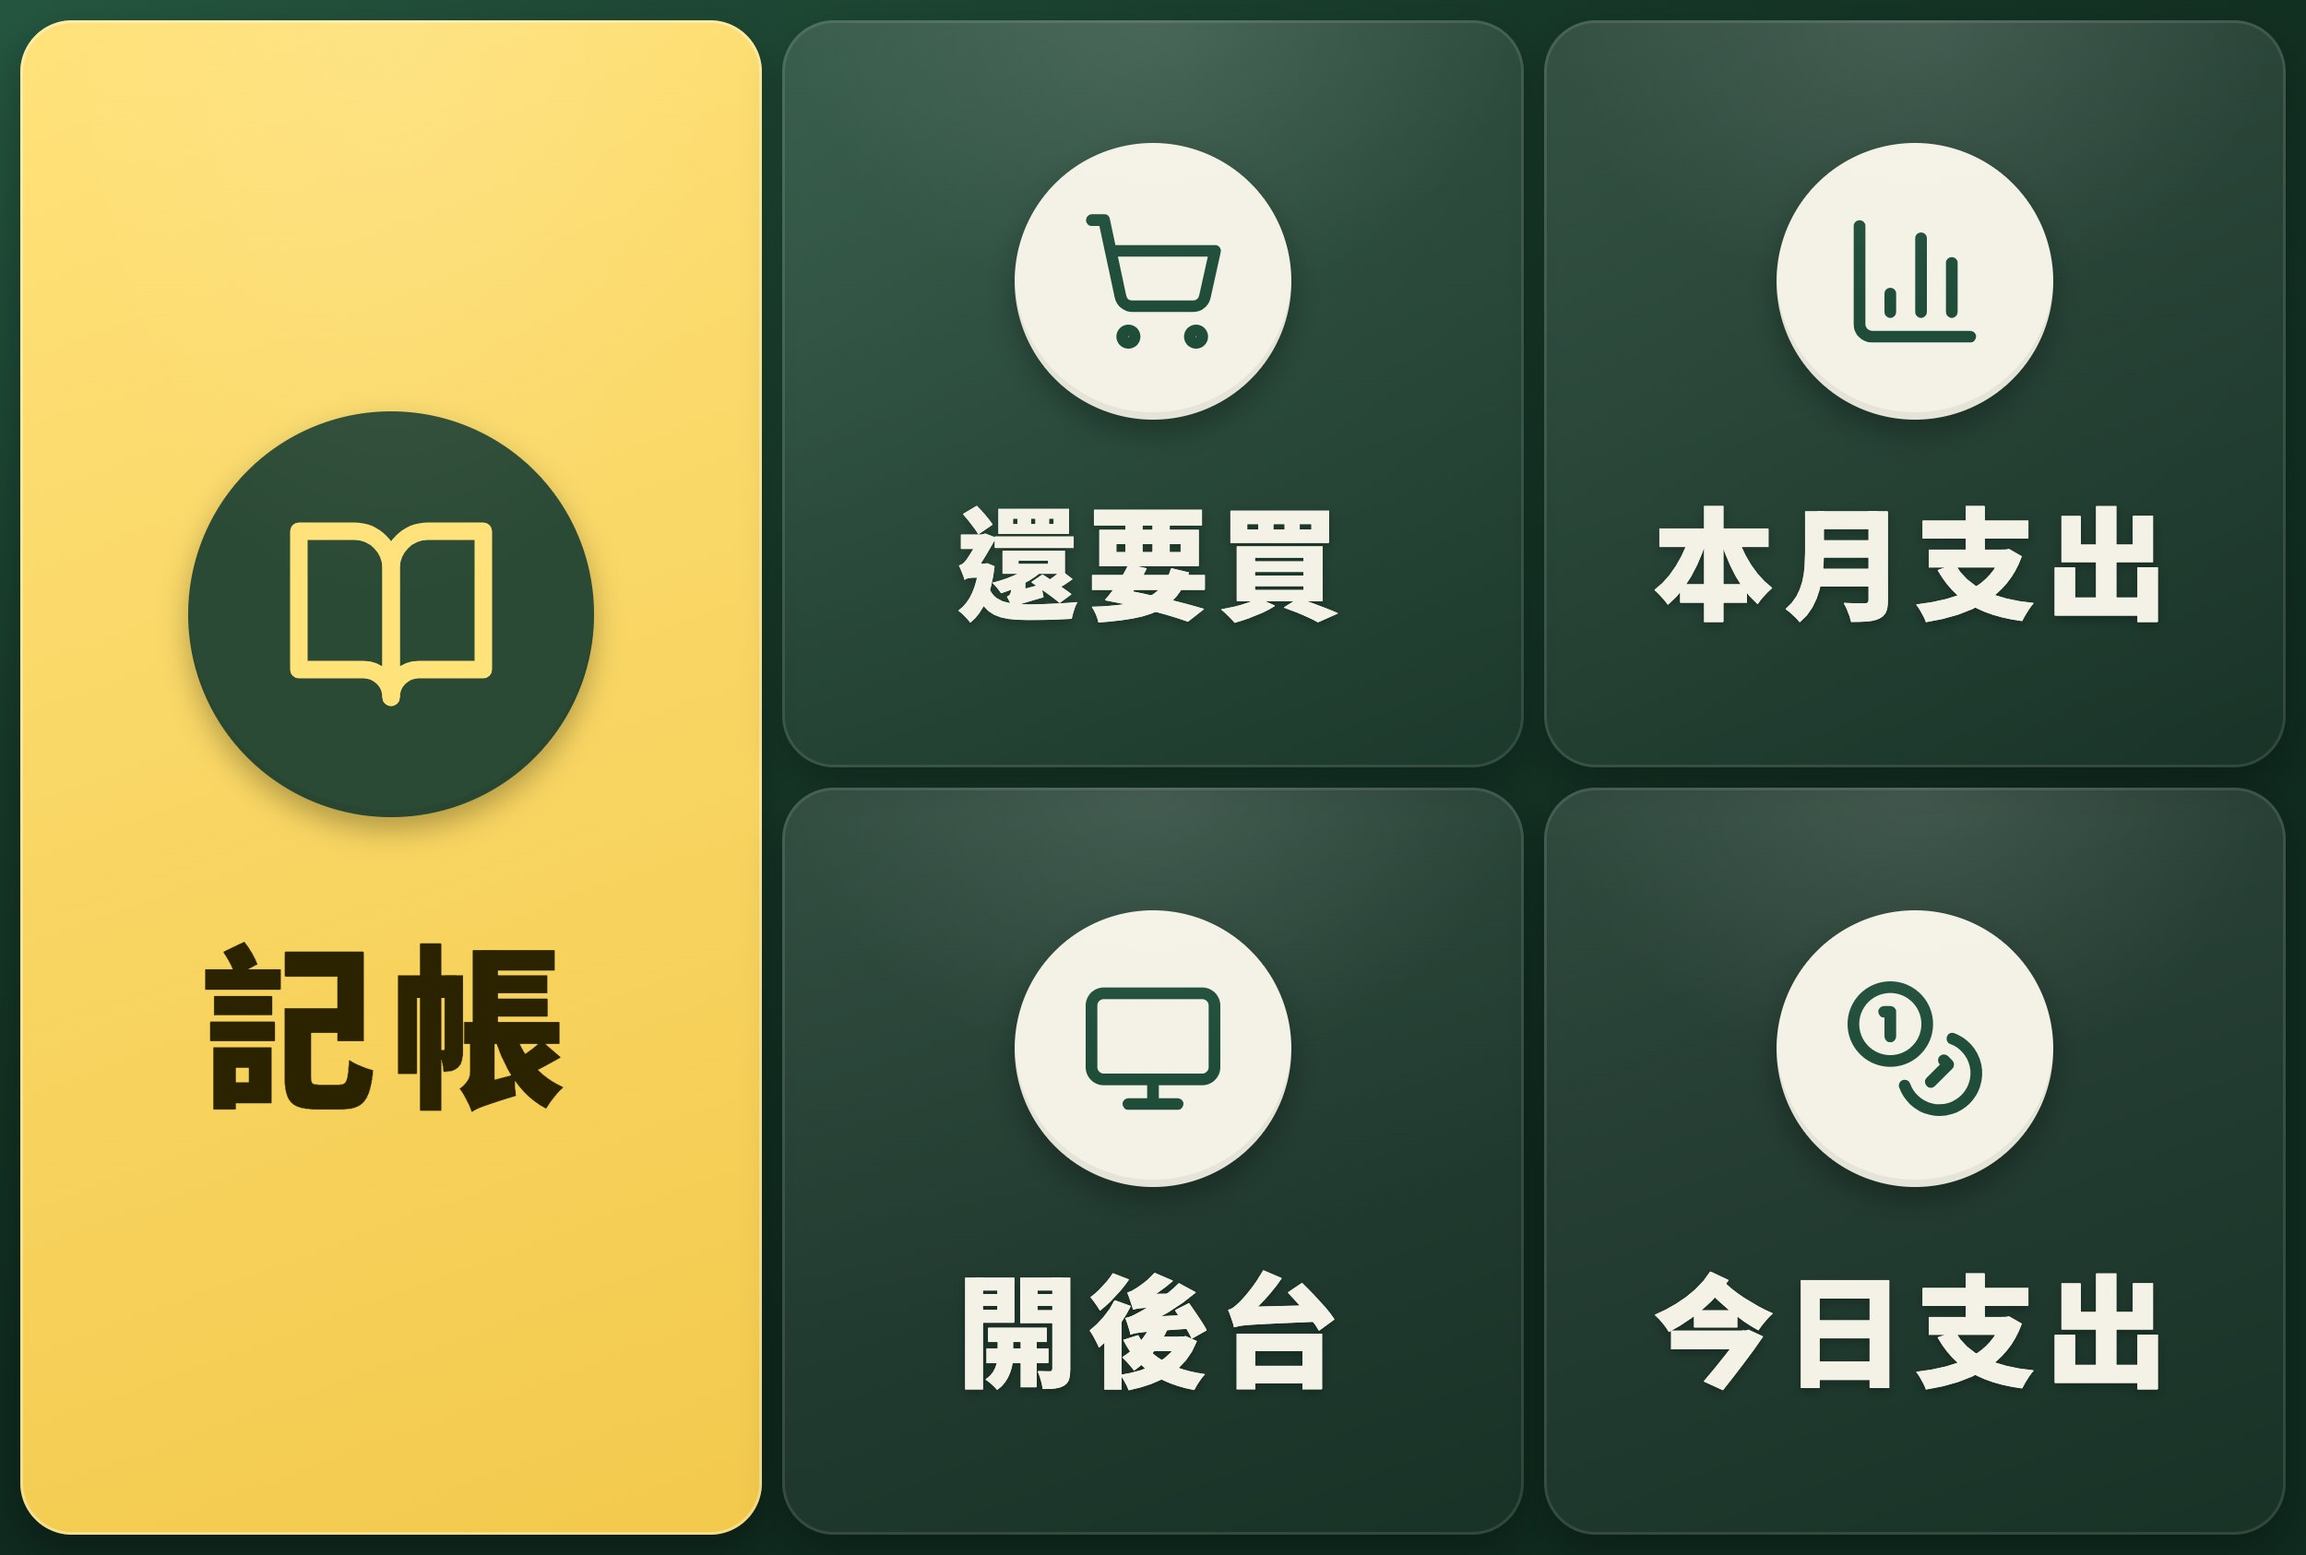
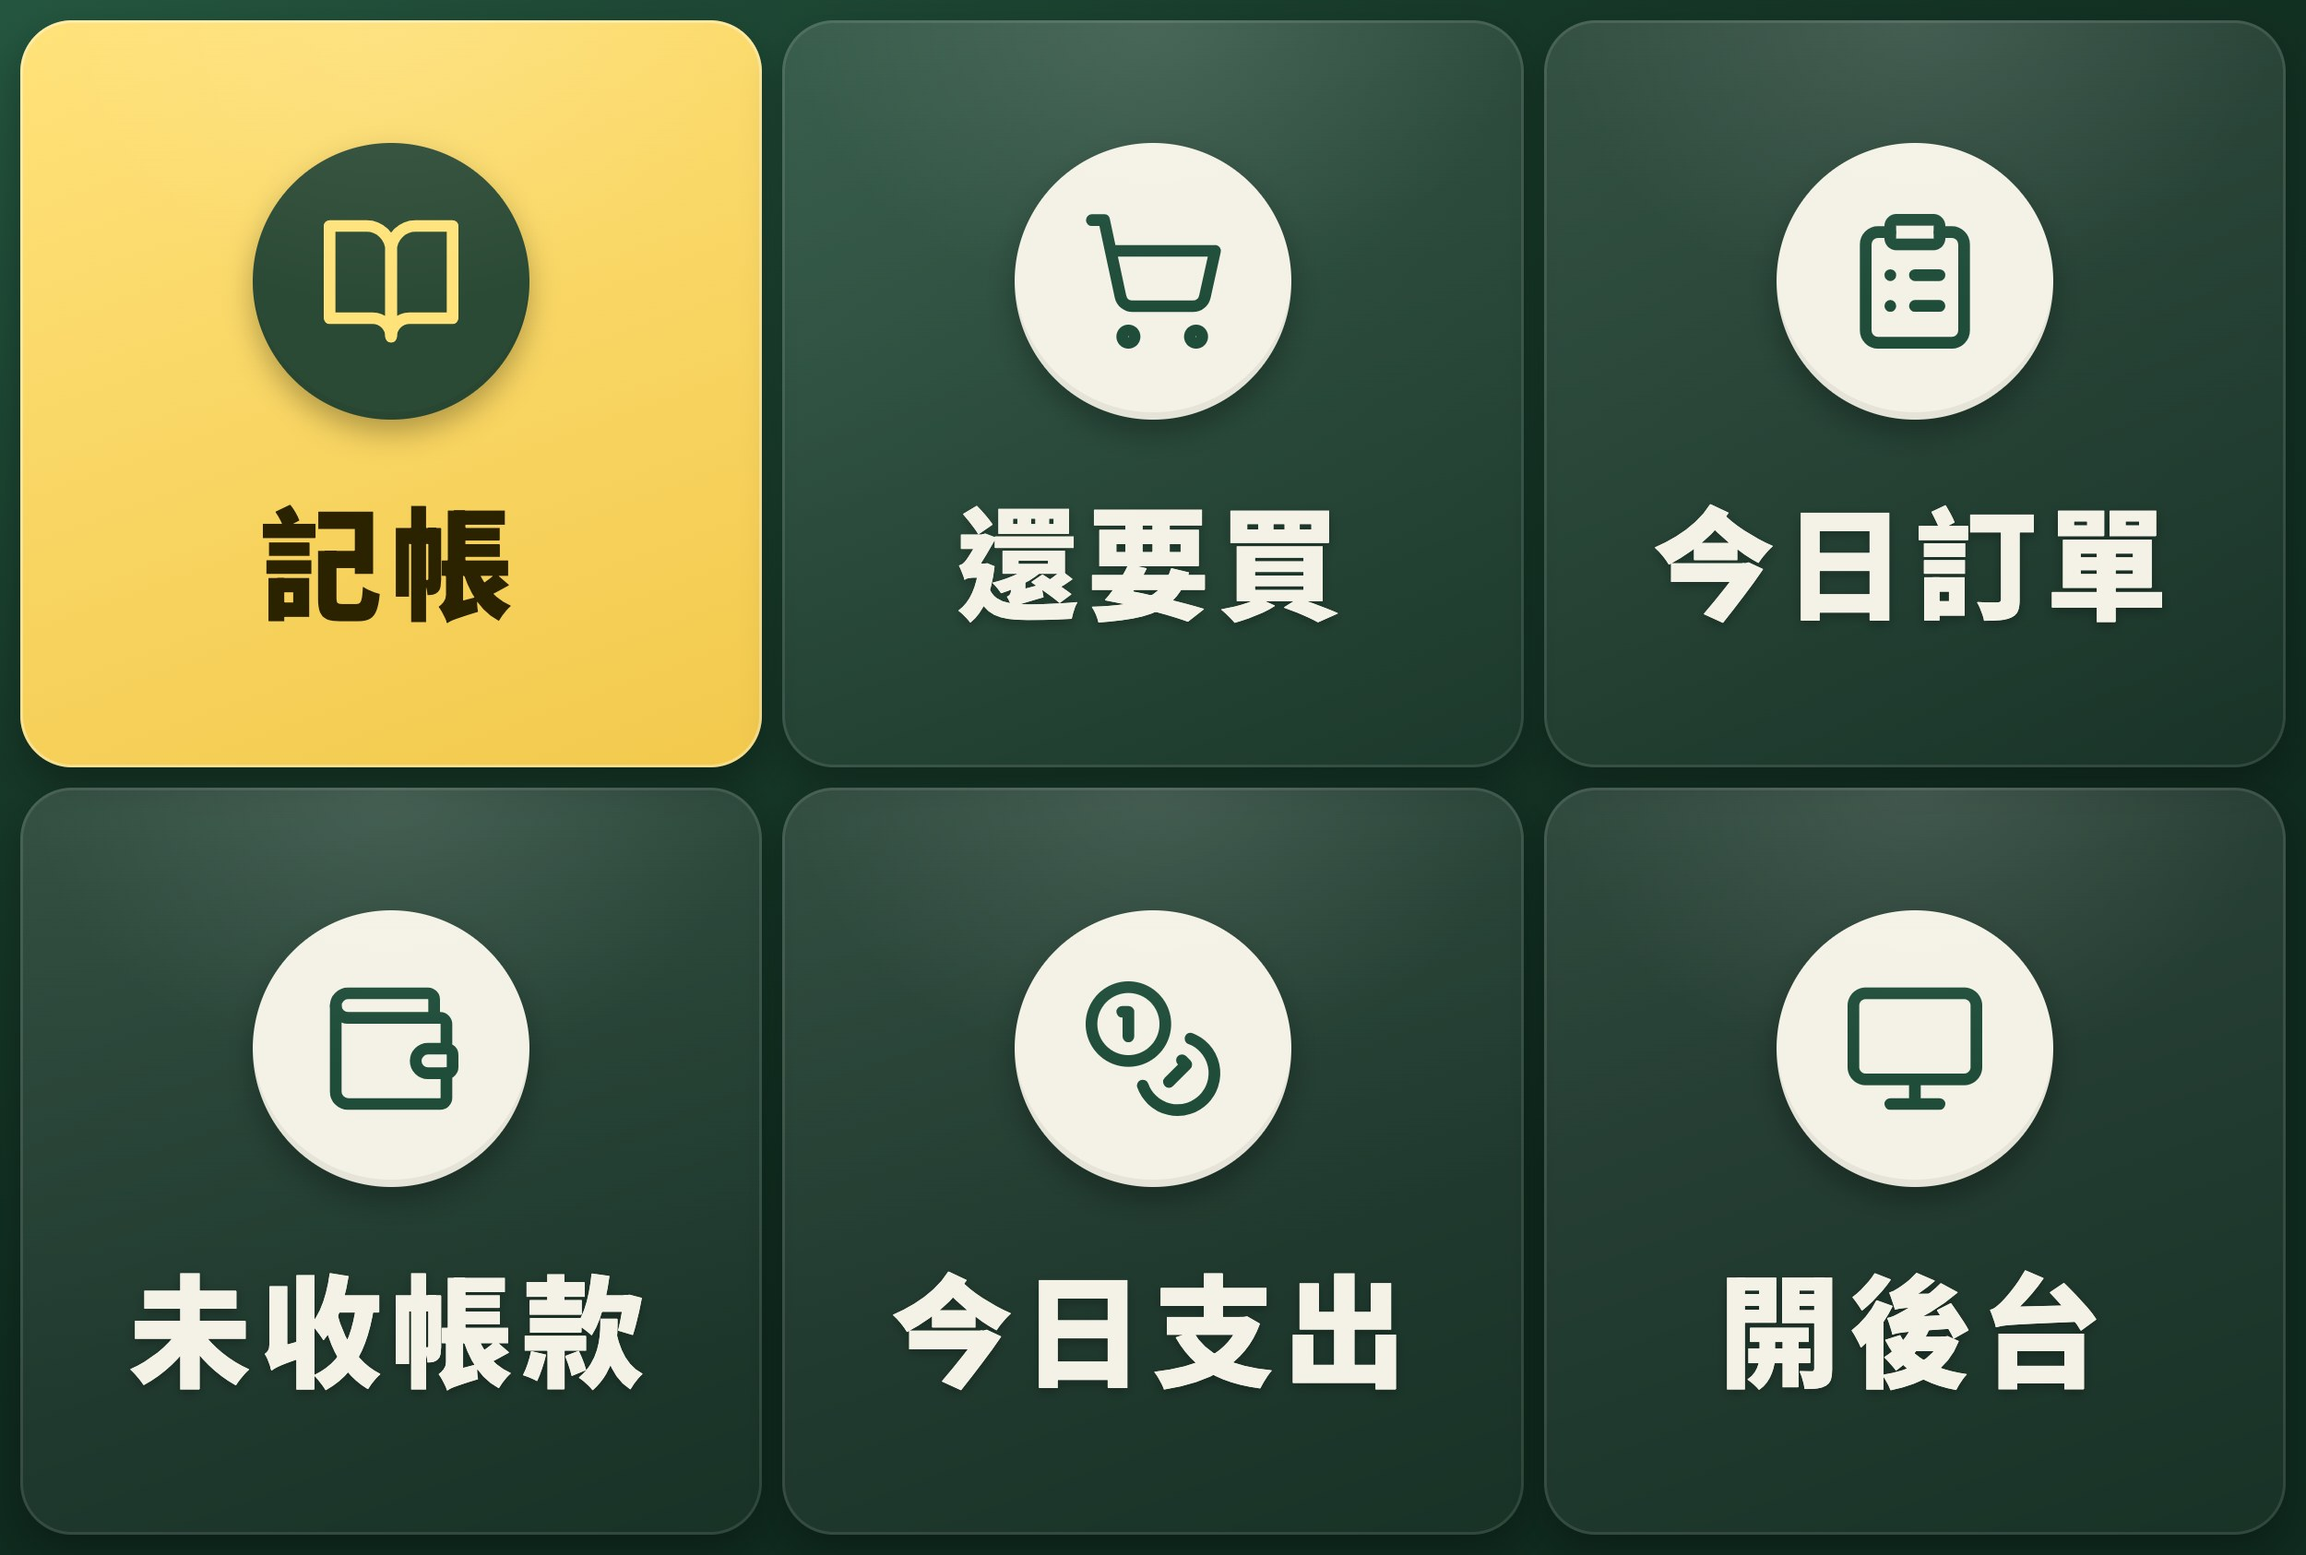
老闆選單改 6 格：加「今日訂單」（誰叫了、誰還沒叫、一鍵提醒）和「未收帳款」（誰欠多少、確認後催款附對帳單）

diff --git a/functions/api/bosschat.js b/functions/api/bosschat.js
@@ -1,0 +1,74 @@
+// 老闆選單的「今日訂單」「未收帳款」（查詢用回覆，不算額度；提醒、催款是推播給店家，會用額度）
+import { openDate, buyDate, label, cutoffLabel } from '../lib/dates.js';
+import * as shop from '../lib/shop.js';
+import * as report from '../lib/report.js';
+import { remindText, dunningText, statementMessage, money } from '../lib/messages.js';
+import { push } from '../lib/line.js';
+
+const pbAct = (label, data, text) => ({ type: 'action', action: { type: 'postback', label: label.slice(0, 20), data, displayText: text || label } });
+const pushStore = (s, msgs) => Promise.allSettled(s.members.map((m) => push(m.userId, msgs))).then((r) => r.some((x) => x.status === 'fulfilled'));
+
+export async function bossInfo({ said, pb, action }) {
+  /* ---------- 今日訂單：還在叫貨的那天，誰叫了、誰還沒叫 ---------- */
+  if (/^(今日訂單|今天訂單|訂單狀況|誰還沒叫)$/.test(said) || action === 'remindall') {
+    const D = openDate();
+    const [stores, orders] = await Promise.all([shop.getStores(), shop.ordersOfDate(D)]);
+    const active = stores.filter((s) => s.on);
+    const ordered = new Set(orders.map((o) => o.storeId));
+    const miss = active.filter((s) => !ordered.has(s.id));
+    if (action === 'remindall') {
+      const can = miss.filter((s) => s.members.length);
+      const ok = (await Promise.all(can.map((s) => pushStore(s, [remindText(D)])))).filter(Boolean).length;
+      return { type: 'text', text: `已用 LINE 提醒 ${ok} 家：${can.map((s) => s.name).join('、') || '（沒有綁 LINE 的店）'}${miss.length > can.length ? `\n沒綁 LINE、要打電話的：${miss.filter((s) => !s.members.length).map((s) => s.name).join('、')}` : ''}` };
+    }
+    const n = (sid) => orders.filter((o) => o.storeId === sid).reduce((a, o) => a + o.items.length, 0);
+    const lines = [`📋 ${label(D)} 配送（${cutoffLabel(D)} 截單）`, `已叫 ${ordered.size}／${active.length} 家`];
+    if (ordered.size) lines.push('', '✅ 已叫：', ...active.filter((s) => ordered.has(s.id)).map((s) => `・${s.name} ${n(s.id)} 樣`));
+    if (miss.length) lines.push('', '⏳ 還沒叫：', ...miss.map((s) => `・${s.name}${s.members.length ? '' : '（沒綁 LINE）'}`));
+    // 截單後在買的那天（例如今晚截單後看明天的），也一起列
+    const B = buyDate();
+    if (B !== D) {
+      const bo = await shop.ordersOfDate(B);
+      lines.push('', `🚚 ${label(B)} 要送：${new Set(bo.map((o) => o.storeId)).size} 家（已截單）`);
+    }
+    const canRemind = miss.filter((s) => s.members.length).length;
+    return {
+      type: 'text', text: lines.join('\n'),
+      quickReply: { items: [pbAct('🔄 再看一次', 'action=menuinfo&w=orders', '今日訂單'), ...(canRemind ? [pbAct(`📣 提醒沒叫的 ${canRemind} 家`, 'action=remindall', '提醒沒叫的店家')] : [])] },
+    };
+  }
+
+  /* ---------- 未收帳款：誰還欠多少，可以直接催款 ---------- */
+  if (/^(未收帳款|未收款|應收帳款|誰還沒付)$/.test(said) || action === 'dun') {
+    const ar = await report.receivables();
+    if (action === 'dun') {
+      const s = (await shop.getStores()).find((x) => x.id === pb.get('sid'));
+      const a = ar.find((x) => x.storeId === s?.id);
+      if (!s || !a) return { type: 'text', text: '這家店已經沒有未收款了。' };
+      if (!s.members.length) return { type: 'text', text: `「${s.name}」沒有綁 LINE，請打電話催款${s.phone ? `：${s.phone}` : ''}。` };
+      // 先確認一次，免得手滑就傳給客人
+      if (!pb.get('go')) return { type: 'text', text: `確定要用 LINE 傳催款通知給「${s.name}」嗎？\n未收 ${money(a.total)}，會附上 ${Math.min(4, a.months.length)} 張對帳單。`, quickReply: { items: [pbAct('📣 確定催款', `action=dun&sid=${s.id}&go=1`, `確定催款：${s.name}`), pbAct('取消', 'action=menuinfo&w=ar', '取消')] } };
+      const months = a.months.slice(0, 4).reverse();
+      const stmts = await Promise.all(months.map(async (m) => {
+        const [rows, paid] = await Promise.all([shop.monthAmounts(m.month), shop.getPaid(m.month)]);
+        const mine = rows.filter((r) => r.storeId === s.id).sort((x, y) => x.date.localeCompare(y.date));
+        const total = mine.reduce((x, r) => x + r.amount, 0);
+        return statementMessage(s, m.month, mine, total, shop.paidSum(paid[s.id], total));
+      }));
+      await pushStore(s, [...stmts, dunningText(s, a)]);
+      return { type: 'text', text: `已傳催款通知和 ${stmts.length} 張對帳單給「${s.name}」（${money(a.total)}）。` };
+    }
+    if (!ar.length) return { type: 'text', text: '✅ 沒有未收款，全部都收清了！' };
+    const total = ar.reduce((a, s) => a + s.total, 0);
+    const old = ar.filter((s) => s.months.some((m) => m.age >= 2));
+    const lines = [`💰 未收帳款 ${ar.length} 家，共 ${money(total)}`, '', ...ar.slice(0, 20).map((s) => `・${s.name} ${money(s.total)}${s.months.some((m) => m.age >= 2) ? ' ⚠超過2個月' : ''}\n　${s.months.slice().reverse().map((m) => `${+m.month.slice(5)}月 ${money(m.amount)}`).join('、')}`)];
+    if (ar.length > 20) lines.push(`…還有 ${ar.length - 20} 家，到後台「報表」看`);
+    if (old.length) lines.push('', `⚠ ${old.length} 家超過 2 個月沒付清`);
+    return {
+      type: 'text', text: lines.join('\n'),
+      quickReply: { items: ar.filter((s) => s.hasLine).slice(0, 12).map((s) => pbAct(`催 ${s.name}`, `action=dun&sid=${s.storeId}`, `催款：${s.name}`)) },
+    };
+  }
+  if (action === 'menuinfo') return bossInfo({ said: pb.get('w') === 'orders' ? '今日訂單' : '未收帳款', pb, action: '' });
+  return null;
+}

diff --git a/public/manual.html b/public/manual.html
@@ -497,7 +497,7 @@ details>div p+p{margin-top:8px}
     <ul>
       <li>每個月的營收、進貨成本、毛利、淨利、出貨重量。沒填進價的營收會提醒你，毛利會偏高。</li>
       <li><b>記帳（支出）</b>：填日期、買了什麼、金額按「記一筆」，分類選「自動分類」就會照關鍵字分好。記的支出會算進當天的其他成本和淨利。</li>
-      <li><b>用 LINE 記帳</b>（只有老闆的 LINE 可以）：直接打「油錢 500」「昨天 紙箱 800」「10/28 進貨 12000 @大成」，@ 後面是付給誰。回覆下面可以「取消這筆」或改分類，改過一次，下次打一樣的字就會自動分對。打「今天支出」「本月支出」「上個月支出」可以查帳，打「還要買」看還有哪些菜沒買齊。老闆的 LINE 會看到「老闆選單」（記帳、今天支出、本月支出、開後台、店家模式），店家看不到。按「還要買」看採買進度、「今日支出」「本月支出」查帳。要測試叫貨就打「店家選單」切到店家選單，這時候記帳要在前面加「記帳」；打「老闆選單」切回來。</li>
+      <li><b>用 LINE 記帳</b>（只有老闆的 LINE 可以）：直接打「油錢 500」「昨天 紙箱 800」「10/28 進貨 12000 @大成」，@ 後面是付給誰。回覆下面可以「取消這筆」或改分類，改過一次，下次打一樣的字就會自動分對。打「今天支出」「本月支出」「上個月支出」可以查帳，打「還要買」看還有哪些菜沒買齊。老闆的 LINE 會看到「老闆選單」（記帳、今天支出、本月支出、開後台、店家模式），店家看不到。老闆選單有：記帳、還要買、今日訂單（誰叫了、誰還沒叫，可以一鍵提醒沒叫的）、未收帳款（誰欠多少，點「催 ○○」確認後傳催款和對帳單）、今日支出、開後台。打「本月支出」也查得到。要測試叫貨就打「店家選單」切到店家選單，這時候記帳要在前面加「記帳」；打「老闆選單」切回來。</li>
       <li><b>進貨的分類跟品項分類一樣</b>（例如葉菜類、瓜果豆類…），品名會自動分類：打「高麗菜 1500」就記進葉菜類。LINE 按「記帳」會先跳出分類按鈕，點一個再打金額也可以。</li>
       <li><b>自動算進價</b>：記帳寫數量（「高麗菜20斤 5000」）會算出每斤進價 $250，並自動填進那個配送日「單價」頁的進價。同一天分幾次買會用加權平均，修改或刪掉那筆帳也會重算。</li>
       <li><b>進貨統計</b>：每個品項這個月店家叫了多少、已買多少、多買或少買、記帳金額、平均進價和最低～最高價，「匯出 Excel」也有這張。</li>

diff --git a/functions/api/webhook.js b/functions/api/webhook.js
@@ -12,6 +12,7 @@ import { welcome, orderMessage, orderCard, myOrders, addonCard, flex } from '../
 import { looksLikeOrder } from '../lib/ai.js';
 import { queue, confirmDraft, aiQuotaOk } from '../lib/aiorder.js';
 import { storeChat } from './storechat.js';
+import { bossInfo } from './bosschat.js';
 
 export async function POST(request) {
   const raw = await request.text();
@@ -228,6 +229,9 @@ async function bossChat({ said, pb, action, store, uid }) {
     await modeRef(uid).set({ mode }, { merge: true });
     return { type: 'text', text: mode === 'boss' ? '已切到老闆選單：打「油錢 500」就能記帳。' : '已切到店家選單，可以測試叫貨。要切回來打「老闆選單」。' };
   }
+  // 今日訂單、未收帳款（老闆選單和店家選單都能查）
+  const info = await bossInfo({ said, pb, action });
+  if (info) return info;
   const m = (await modeRef(uid).get()).data() || {};
   // 按「記帳」選了分類：10 分鐘內打的「品名 金額」記到這一類
   const pick = m.pick && Date.now() - m.pick.at < 10 * 60e3 ? m.pick.cat : '';

diff --git a/scripts/richmenu/menu.html b/scripts/richmenu/menu.html
@@ -42,7 +42,7 @@ const I = {
 const cell = (icon, text, cls = '') => `<div class="c ${cls}"><div class="ic"><svg viewBox="0 0 24 24">${I[icon]}</svg></div><div class="t">${text}</div></div>`;
 document.body.className = boss ? 'boss' : 'store';
 document.body.insertAdjacentHTML('beforeend', boss
-  ? cell('book', '記帳', 'hot big') + cell('cart', '還要買') + cell('chart', '本月支出') + cell('screen', '開後台') + cell('coins', '今日支出')
+  ? cell('book', '記帳', 'hot') + cell('cart', '還要買') + cell('list', '今日訂單') + cell('wallet', '未收帳款') + cell('coins', '今日支出') + cell('screen', '開後台')
   : cell(veg ? 'leaf' : 'garlic', '我要叫貨', 'hot') + cell('camera', '拍照叫貨') + cell('repeat', '照上次叫') + cell('list', '我的訂單') + cell('wallet', '我的帳款') + cell('alert', '回報問題', 'warn'));
 </script>
 </body></html>

diff --git a/public/admin.html b/public/admin.html
@@ -606,7 +606,7 @@ input[type=checkbox],input[type=radio]{accent-color:var(--leaf)}
   </section>
 
   <section id="users" hidden>
-    <div class="mebox"><span id="meInfo"></span><small class="ver">版本 103017</small></div>
+    <div class="mebox"><span id="meInfo"></span><small class="ver">版本 103018</small></div>
     <a class="manual" href="/manual" onclick="event.preventDefault();$('helpBtn').click()"><b>📖 使用說明書</b></a>
     <div class="sgrps">
     <div id="rulesBox">
